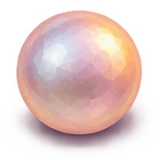
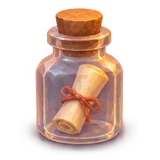
아이콘 누끼, 반투명 인벤토리, 양면 수첩(왼쪽 달력·오른쪽 일기/친구), 회중시계 지갑(노을색 차오름), 해변 물건·줍기 작게, 토스트 한 줄 멘트, 고운돋움 글씨, 진주/유리병 아이콘 바로잡기, 시세 숨김
Claude-Session: https://claude.ai/code/session_01V1uW48asEmbAkskT1r7mEz

diff --git a/index.html b/index.html
@@ -2,7 +2,7 @@
 <html lang="ko">
 <head>
 <meta charset="utf-8">
-<link rel="preconnect" href="https://fonts.googleapis.com"><link rel="preconnect" href="https://fonts.gstatic.com" crossorigin><link href="https://fonts.googleapis.com/css2?family=Gaegu:wght@400;700&display=swap" rel="stylesheet">
+<link rel="preconnect" href="https://fonts.googleapis.com"><link rel="preconnect" href="https://fonts.gstatic.com" crossorigin><link href="https://fonts.googleapis.com/css2?family=Gaegu:wght@400;700&family=Gowun+Dodum&display=swap" rel="stylesheet">
 <meta name="viewport" content="width=device-width, initial-scale=1, maximum-scale=1, user-scalable=no, viewport-fit=cover">
 <title>이브 빌리지</title>
 <meta name="description" content="늘 해 질 녘, 크리스마스이브에 멈춘 숲바다 마을">
@@ -51,61 +51,71 @@
   #standBtn{position:fixed;left:50%;transform:translateX(-50%);top:calc(12px + env(safe-area-inset-top));border:0;padding:10px 22px;border-radius:999px;background:#e8a457;color:#3a2420;font:700 14px -apple-system,'Apple SD Gothic Neo',sans-serif;box-shadow:0 4px 14px rgba(40,20,30,.35);z-index:6;display:none;}
 
   /* ---- 아래 아이콘·가방·수첩 ---- */
-  .icobtn{position:fixed;right:12px;width:46px;height:46px;border:0;padding:0;border-radius:50%;background:radial-gradient(circle at 40% 35%,rgba(255,248,236,.95),rgba(236,214,190,.92));box-shadow:0 4px 12px rgba(30,15,25,.35),inset 0 0 0 2px rgba(150,95,60,.25);z-index:6;display:none;}
-  .icobtn img{width:36px;height:36px;margin-top:2px;pointer-events:none;}
+  .icobtn{position:fixed;right:10px;width:50px;height:50px;border:0;padding:0;background:none;z-index:6;display:none;}
+  .icobtn img{width:50px;height:50px;pointer-events:none;filter:drop-shadow(0 3px 4px rgba(20,8,15,.45));}
   .icobtn:active{transform:scale(.94);}
   #bagBtn{bottom:calc(116px + env(safe-area-inset-bottom));}
   #dressBtn{bottom:calc(64px + env(safe-area-inset-bottom));top:auto;}
-  #sndBtn{position:fixed;top:calc(50px + env(safe-area-inset-top));right:12px;width:42px;height:42px;border:0;padding:0;border-radius:50%;background:rgba(255,250,240,.88);z-index:5;display:none;box-shadow:0 2px 8px rgba(30,15,25,.25);}
-  #sndBtn img{width:34px;height:34px;margin-top:2px;pointer-events:none;}
+  #sndBtn{position:fixed;top:calc(46px + env(safe-area-inset-top));right:10px;width:42px;height:42px;border:0;padding:0;background:none;z-index:5;display:none;}
+  #sndBtn img{width:42px;height:42px;pointer-events:none;filter:drop-shadow(0 3px 4px rgba(20,8,15,.45));}
   .ov{position:fixed;inset:0;z-index:14;display:none;align-items:center;justify-content:center;background:rgba(22,14,24,.55);backdrop-filter:blur(3px);}
   .ov.on{display:flex;}
   .ov .x{position:absolute;top:-6px;right:-6px;width:40px;height:40px;border-radius:50%;border:0;background:#fff4e2;color:#5a3a2b;font-size:22px;line-height:40px;box-shadow:0 4px 10px rgba(0,0,0,.3);z-index:4;}
-  #bagUI .bag{position:relative;width:min(92vw,78vh,640px);aspect-ratio:1100/1101;background:url(ui/bag.webp) center/100% 100% no-repeat;filter:drop-shadow(0 18px 30px rgba(10,5,10,.45));}
+  #bagUI .bag{position:relative;width:min(92vw,64vh,600px);margin-bottom:9vh;aspect-ratio:1100/1101;background:url(ui/bag.webp) center/100% 100% no-repeat;filter:drop-shadow(0 18px 30px rgba(10,5,10,.45));}
   #bagUI .inv{position:absolute;left:9%;right:9%;top:25%;bottom:11%;border-radius:18px;padding:4.5%;box-sizing:border-box;
-    background:linear-gradient(180deg,#f3e6d2,#e8d6bd);box-shadow:inset 0 3px 10px rgba(90,50,30,.35),0 0 0 3px rgba(120,70,40,.35);display:grid;grid-template-columns:repeat(4,1fr);grid-template-rows:repeat(3,1fr);gap:4%;}
-  #bagUI .cell{position:relative;border:0;padding:0;border-radius:12px;background:rgba(255,252,246,.75);box-shadow:inset 0 0 0 2px rgba(150,100,65,.22),0 2px 0 rgba(150,100,65,.15);display:flex;align-items:center;justify-content:center;}
+    background:rgba(70,35,25,.42);backdrop-filter:blur(2px);box-shadow:inset 0 3px 12px rgba(30,12,8,.45);display:grid;grid-template-columns:repeat(4,1fr);grid-template-rows:repeat(3,1fr);gap:4%;}
+  #bagUI .cell{position:relative;border:0;padding:0;border-radius:12px;background:rgba(255,236,210,.14);box-shadow:inset 0 0 0 1.5px rgba(255,225,190,.22);display:flex;align-items:center;justify-content:center;}
   #bagUI .cell img{width:78%;height:78%;object-fit:contain;filter:drop-shadow(0 2px 2px rgba(60,30,20,.3));pointer-events:none;}
-  #bagUI .cell i{position:absolute;right:5%;bottom:4%;font:700 15px/18px 'Gaegu',cursive;font-style:normal;color:#6a4230;}
-  #bagUI .cell.sel{background:#fff6e0;box-shadow:inset 0 0 0 3px #d39a5c;}
-  #bagUI .base{position:absolute;left:50%;bottom:-17%;transform:translateX(-50%);display:flex;gap:18px;}
-  #bagUI .base button{white-space:nowrap;border:0;padding:6px 14px 6px 8px;border-radius:999px;background:#fff4e2;color:#5a3a2b;font:700 18px 'Gaegu',cursive;display:flex;align-items:center;gap:6px;box-shadow:0 4px 12px rgba(0,0,0,.3);}
-  #bagUI .base img{width:34px;height:34px;}
+  #bagUI .cell i{position:absolute;right:6%;bottom:4%;font:13px/16px 'Gowun Dodum',sans-serif;font-style:normal;color:#fff4e2;text-shadow:0 1px 2px rgba(0,0,0,.7);}
+  #bagUI .cell.sel{background:rgba(255,236,210,.3);box-shadow:inset 0 0 0 2px rgba(255,214,150,.8);}
+  #bagUI .base{gap:34px !important;position:absolute;left:50%;bottom:-19%;transform:translateX(-50%);display:flex;gap:18px;}
+  #bagUI .base button{white-space:nowrap;border:0;padding:0;background:none;color:#fff4e2;font:15px 'Gowun Dodum',sans-serif;display:flex;flex-direction:column;align-items:center;gap:2px;text-shadow:0 1px 3px rgba(0,0,0,.8);}
+  #bagUI .base img{width:56px;height:56px;filter:drop-shadow(0 3px 4px rgba(0,0,0,.45));}
   #bagUI .pg{position:absolute;bottom:3.5%;left:50%;transform:translateX(-50%);display:flex;gap:10px;}
   #bagUI .pg button{border:0;border-radius:999px;padding:2px 12px;font:700 16px 'Gaegu',cursive;background:#fff4e2;color:#5a3a2b;}
   #bagInfo{position:absolute;left:50%;bottom:12%;transform:translateX(-50%);width:80%;z-index:3;padding:12px 16px 12px 12px;border-radius:12px;background:#f1e2c8;color:#4a3426;box-shadow:0 10px 22px rgba(0,0,0,.35);
-    font-family:'Gaegu',cursive;font-size:18px;line-height:22px;display:none;gap:12px;align-items:center;}
-  #bagInfo.on{display:flex;} #bagInfo img{width:64px;height:64px;flex:0 0 auto;} #bagInfo h4{margin:0 0 2px;font-size:22px;} #bagInfo small{color:#8a6247;font-size:15px;}
-  #wallet .wc{position:relative;width:min(80vw,320px);padding:26px 20px 22px;border-radius:22px;background:#f3e6d2;text-align:center;font-family:'Gaegu',cursive;color:#4a3426;box-shadow:0 18px 40px rgba(0,0,0,.45);}
-  #wallet .clock svg{width:72%;}
-  #wallet .wn{font-size:24px;margin-top:4px;} #wallet .wn b{font-size:52px;}
-  #wallet .wsub{font-size:18px;color:#8a6247;}
-  #note .nb{position:relative;height:min(88vh,140vw);aspect-ratio:960/1439;background:url(ui/note.webp) center/100% 100% no-repeat;filter:drop-shadow(0 18px 30px rgba(10,5,10,.45));font-family:'Gaegu','Nanum Pen Script',cursive;color:#4a3426;}
-  #note .pc{position:absolute;left:11%;right:14%;top:11%;bottom:9%;overflow:auto;}
-  #note .tb{position:absolute;left:89.5%;width:10%;height:7.6%;border:0;padding:0;background:none;color:#fff8ee;font:700 min(17px,3.6vw) 'Gaegu',cursive;text-shadow:0 1px 2px rgba(60,25,10,.6);}
-  #note .tb.on{filter:brightness(1.15);font-size:17px;}
-  #note .tb[data-t=cal]{top:21.6%;} #note .tb[data-t=day]{top:35.6%;} #note .tb[data-t=fr]{top:49.6%;}
-  #note h3{margin:0;font-size:min(30px,6.5vw);font-weight:700;color:#4a2c20;display:flex;align-items:center;justify-content:space-between;}
-  #note h3 button{border:0;background:none;font:700 26px 'Gaegu',cursive;color:#8a5a3e;padding:0 6px;}
-  #note .sub{font-size:min(18px,4.2vw);color:#8a6247;margin:2px 0 8px;}
+    font-family:'Gowun Dodum',sans-serif;font-size:13px;line-height:19px;display:none;gap:10px;align-items:center;}
+  #bagInfo.on{display:flex;} #bagInfo img{width:48px;height:48px;flex:0 0 auto;} #bagInfo h4{margin:0 0 2px;font-size:15px;} #bagInfo small{color:#8a6247;font-size:15px;}
+  #wallet .wc{position:relative;width:min(78vw,340px);text-align:center;font-family:'Gowun Dodum',sans-serif;color:#fff6ea;text-shadow:0 2px 6px rgba(20,8,15,.7);}
+  #wallet .clock{position:relative;width:100%;aspect-ratio:500/545;}
+  #wallet .clock img{width:100%;height:100%;filter:drop-shadow(0 14px 24px rgba(0,0,0,.5));}
+  #wallet .clock svg{position:absolute;left:21.5%;top:30.3%;width:57%;}
+  #wallet .wn{font-size:20px;margin-top:6px;} #wallet .wn b{font-size:44px;font-weight:400;}
+  #wallet .wsub{font-size:14px;opacity:.85;}
+  #wallet .x{top:2%;right:2%;}
+  #note .nb{position:relative;width:min(94vw,124vh,1000px);aspect-ratio:1400/917;background:url(ui/spread.webp) center/100% 100% no-repeat;filter:drop-shadow(0 18px 30px rgba(10,5,10,.45));font-family:'Gowun Dodum',sans-serif;color:#5a3d33;}
+  #note .pg{position:absolute;top:7%;bottom:8%;overflow:auto;}
+  #note .pg.l{left:6%;width:39%;} #note .pg.r{left:55%;width:37%;}
+  #note .tabs{position:absolute;top:2%;right:6%;display:flex;gap:6px;z-index:2;}
+  #note .tabs button{border:0;border-radius:999px;padding:3px 10px;font:13px 'Gowun Dodum',sans-serif;background:rgba(200,120,100,.18);color:#8a4f44;}
+  #note .tabs button.on{background:#d98c78;color:#fff;}
+  #note h3{margin:0;font-size:clamp(15px,2.4vw,22px);font-weight:400;color:#4f3128;display:flex;align-items:center;justify-content:space-between;}
+  #note h3 button{border:0;background:none;font-size:clamp(16px,2.4vw,22px);color:#b07060;padding:0 6px;}
+  #note .sub{font-size:clamp(11px,1.4vw,13px);color:#a07a6c;margin:2px 0 8px;}
   #note .cal{display:grid;grid-template-columns:repeat(7,1fr);gap:2px;text-align:center;}
-  #note .cal .h{font-size:min(16px,3.8vw);color:#9b7458;padding-bottom:2px;}
-  #note .cal .d{position:relative;aspect-ratio:1;font-size:min(18px,4.2vw);line-height:1.5;border-radius:8px;cursor:pointer;}
-  #note .cal .d.sel{background:rgba(255,236,200,.55);box-shadow:inset 0 0 0 1px rgba(160,100,60,.25);}
-  #note .cal .d.today{font-weight:700;color:#c4523a;}
-  #note .cal .d img{position:absolute;left:50%;top:50%;width:132%;height:132%;transform:translate(-50%,-50%) rotate(var(--r));opacity:.86;mix-blend-mode:multiply;pointer-events:none;}
-  #note ul{list-style:none;margin:6px 0 0;padding:0;font-size:min(20px,4.6vw);line-height:1.6;}
-  #note li{position:relative;padding-left:20px;} #note li:before{content:'';position:absolute;left:3px;top:.7em;width:8px;height:8px;border-radius:50%;background:#d88a5c;}
-  #note .empty{color:#9b7458;font-size:min(19px,4.4vw);margin-top:6px;}
-  #note .mini{display:flex;align-items:center;gap:8px;margin-top:10px;font-size:min(18px,4.2vw);}
-  #note .mini img{width:54px;height:54px;mix-blend-mode:multiply;opacity:.9;transform:rotate(-10deg);}
+  #note .cal .h{font-size:clamp(10px,1.3vw,12px);color:#b08a7c;padding-bottom:2px;}
+  #note .cal .d{position:relative;aspect-ratio:1;font-size:clamp(11px,1.5vw,14px);line-height:1.7;border-radius:8px;cursor:pointer;}
+  #note .cal .d.sel{background:rgba(217,140,120,.16);}
+  #note .cal .d.today{color:#c2563f;font-weight:700;}
+  #note .cal .d img{position:absolute;left:50%;top:50%;width:115%;height:115%;transform:translate(-50%,-50%) rotate(var(--r));opacity:.85;mix-blend-mode:multiply;pointer-events:none;}
+  #note ul{list-style:none;margin:8px 0 0;padding:0;font-size:clamp(12px,1.6vw,15px);line-height:1.9;}
+  #note li{position:relative;padding-left:16px;} #note li:before{content:'';position:absolute;left:2px;top:.8em;width:6px;height:6px;border-radius:50%;background:#e0a08a;}
+  #note .empty{color:#b08a7c;font-size:clamp(12px,1.5vw,14px);margin-top:8px;line-height:1.8;}
+  #note .mini{display:flex;align-items:center;gap:6px;margin-top:10px;font-size:clamp(11px,1.4vw,13px);color:#a07a6c;}
+  #note .mini img{width:40px;height:40px;mix-blend-mode:multiply;opacity:.85;transform:rotate(-10deg);}
+  #note .flip{display:none;}
+  @media (max-width:680px){#note .nb{width:92vw;aspect-ratio:700/917;background-size:200% 100%;background-position:0 0;}
+    #note .nb.rt{background-position:100% 0;} #note .pg.l{left:12%;width:80%;} #note .pg.r{left:10%;width:78%;display:none;}
+    #note .nb.rt .pg.l{display:none;} #note .nb.rt .pg.r{display:block;}
+    #note .flip{display:block;position:absolute;bottom:2.5%;left:50%;transform:translateX(-50%);border:0;border-radius:999px;padding:4px 14px;font:13px 'Gowun Dodum',sans-serif;background:#d98c78;color:#fff;z-index:2;}
+    #note h3{font-size:19px;} #note .sub{font-size:12px;} #note .cal .h{font-size:11px;} #note .cal .d{font-size:13px;} #note ul{font-size:14px;} #note .empty{font-size:13px;}}
   .wiv{position:absolute;width:5.2%;aspect-ratio:1;transform:translate(-50%,-50%);pointer-events:none;}
-  .pickBtn{position:absolute;transform:translate(-50%,-100%);border:0;border-radius:999px;padding:4px 11px;background:#fff4e2;color:#5a3a2b;font:700 15px 'Gaegu',cursive;box-shadow:0 3px 8px rgba(0,0,0,.3);pointer-events:auto;white-space:nowrap;}
+  .pickBtn{position:absolute;transform:translate(-50%,-100%);border:0;border-radius:999px;padding:2px 8px;background:#fff4e2;color:#5a3a2b;font:12px 'Gowun Dodum',sans-serif;box-shadow:0 3px 8px rgba(0,0,0,.3);pointer-events:auto;white-space:nowrap;}
   .pickBtn:after{content:'';position:absolute;left:50%;bottom:-5px;margin-left:-5px;border:5px solid transparent;border-top-color:#fff4e2;border-bottom:0;}
   .glint{position:absolute;width:14px;height:14px;transform:translate(-50%,-50%);pointer-events:none;background:linear-gradient(#fff,#fff) center/2px 100% no-repeat,linear-gradient(#fff,#fff) center/100% 2px no-repeat;filter:drop-shadow(0 0 3px #fff3c4);animation:glint 4s ease-in-out infinite;opacity:0;}
   @keyframes glint{0%,70%,100%{opacity:0;transform:translate(-50%,-50%) scale(.4) rotate(0)}80%{opacity:1;transform:translate(-50%,-50%) scale(1) rotate(45deg)}90%{opacity:0;transform:translate(-50%,-50%) scale(.5) rotate(90deg)}}
-  #toast{position:fixed;left:50%;top:calc(64px + env(safe-area-inset-top));transform:translate(-50%,-20px);opacity:0;transition:all .35s;z-index:15;background:#fff4e2;color:#5a3a2b;
-    padding:10px 16px 10px 12px;border-radius:16px;box-shadow:0 8px 20px rgba(0,0,0,.25);display:flex;align-items:center;gap:10px;font-family:'Gaegu',cursive;font-size:19px;pointer-events:none;}
+  #toast{position:fixed;left:50%;top:calc(58px + env(safe-area-inset-top));transform:translate(-50%,-10px);opacity:0;transition:all .35s;z-index:15;white-space:nowrap;
+    color:#fff8ec;font:15px 'Gowun Dodum',sans-serif;text-shadow:0 1px 3px rgba(40,15,20,.85),0 0 10px rgba(40,15,20,.5);display:flex;align-items:center;gap:6px;pointer-events:none;}
   #toast.on{opacity:1;transform:translate(-50%,0);}
   #toast img{flex:0 0 auto;} #toast .ms{width:38px;height:38px;border-radius:50%;border:2px solid #c4523a;color:#c4523a;font-size:12px;line-height:13px;display:flex;align-items:center;justify-content:center;text-align:center;transform:rotate(-12deg);font-weight:700;}
   #shop{position:fixed;inset:0;z-index:14;display:none;align-items:center;justify-content:center;background:rgba(25,16,28,.5);backdrop-filter:blur(3px);}
@@ -158,8 +168,8 @@
 <div id="view"><div id="stage"><img id="map" alt=""><div id="fx"></div><canvas id="c"></canvas><div id="fxTop" style="position:absolute;inset:0;pointer-events:none"></div><div id="seats"></div><div id="tags"></div><div id="tap"></div></div><div id="fg"></div></div>
 <div id="place">광장</div><button id="bagBtn" class="icobtn" aria-label="가방"><img src="ui/i_bag.webp" alt=""></button><button id="dressBtn" class="icobtn" aria-label="꾸미기"><img src="ui/i_dress.webp" alt=""></button>
 <div id="bagUI" class="ov"><div class="bag"><button class="x" aria-label="닫기">×</button><div class="inv" id="pockets"></div><div class="pg" id="bagPg"></div><div id="bagInfo"></div><div class="base"><button data-a="wallet"><img src="ui/i_wallet.webp" alt="">지갑</button><button data-a="note"><img src="ui/i_note.webp" alt="">수첩</button></div></div></div>
-<div id="wallet" class="ov"><div class="wc"><button class="x" aria-label="닫기">×</button><div class="clock"><svg viewBox="0 0 200 200"><circle cx="100" cy="100" r="86" fill="#fbf2e2" stroke="#8a5a3e" stroke-width="6"/><circle id="wArc" cx="100" cy="100" r="70" fill="none" stroke="#e8955f" stroke-width="16" stroke-linecap="round" transform="rotate(-90 100 100)" stroke-dasharray="0 440"/><line id="wHand" x1="100" y1="100" x2="100" y2="40" stroke="#5a3a2b" stroke-width="5" stroke-linecap="round"/><circle cx="100" cy="100" r="7" fill="#5a3a2b"/></svg></div><div class="wn"><b id="wNum">0</b>초</div><div class="wsub">모아둔 멈춘 시간</div></div></div>
-<div id="note" class="ov"><div class="nb"><button class="x" aria-label="닫기">×</button><button class="tb" data-t="cal">달력</button><button class="tb" data-t="day">일기</button><button class="tb" data-t="fr">친구</button><div class="pc" id="notePc"></div></div></div><div id="toast"></div><div id="shop"><div class="card"><button class="x" aria-label="닫기">×</button><div id="shopBody"></div></div></div><button id="sndBtn" aria-label="소리"><img src="ui/i_snd_on.webp" alt=""></button><div id="dress"></div><div id="who">1명 접속 중</div>
+<div id="wallet" class="ov"><div class="wc"><button class="x" aria-label="닫기">×</button><div class="clock"><img src="ui/watch.webp" alt=""><svg viewBox="0 0 200 200"><defs><linearGradient id="dusk" x1="0" y1="0" x2="0" y2="1"><stop offset="0" stop-color="#f6b26b"/><stop offset=".55" stop-color="#e98a7a"/><stop offset="1" stop-color="#9f7bb0"/></linearGradient></defs><path id="wArc" d="" fill="url(#dusk)" opacity=".85"/><g stroke="#a3785e" stroke-width="3" stroke-linecap="round" opacity=".55"><line x1="100" y1="8" x2="100" y2="20"/><line x1="192" y1="100" x2="180" y2="100"/><line x1="100" y1="192" x2="100" y2="180"/><line x1="8" y1="100" x2="20" y2="100"/></g><line id="wHand" x1="100" y1="100" x2="100" y2="22" stroke="#6b4434" stroke-width="5" stroke-linecap="round"/><circle cx="100" cy="100" r="7" fill="#c9974a" stroke="#6b4434" stroke-width="2"/></svg></div><div class="wn"><b id="wNum">0</b>초</div><div class="wsub">모아둔 멈춘 시간</div></div></div>
+<div id="note" class="ov"><div class="nb"><button class="x" aria-label="닫기">×</button><div class="tabs"><button data-t="day">일기</button><button data-t="fr">친구</button></div><div class="pg l" id="noteL"></div><div class="pg r" id="noteR"></div><button class="flip">일기 보기 ›</button></div></div><div id="toast"></div><div id="shop"><div class="card"><button class="x" aria-label="닫기">×</button><div id="shopBody"></div></div></div><button id="sndBtn" aria-label="소리"><img src="ui/i_snd_on.webp" alt=""></button><div id="dress"></div><div id="who">1명 접속 중</div>
 <button id="standBtn">일어나기</button><form id="chat" autocomplete="off"><input id="msg" maxlength="60" placeholder="이웃에게 한마디"><button type="submit">보내기</button></form>
 <div id="fade"></div>
 <div id="title"><h1>이브 빌리지</h1><p>늘 해 질 녘, 크리스마스이브에 멈춘 숲바다 마을</p><input id="nm" maxlength="8" placeholder="이름 (최대 8자)"><input id="pw" type="password" maxlength="30" placeholder="비밀번호 (6자 이상)"><p style="font-size:12px;opacity:.75;margin:0">처음이면 자동으로 가입돼요. 다른 기기에서도 같은 이름·비번으로 들어와요.</p><div id="err"></div><button id="go">입장하기</button></div>
@@ -509,10 +519,10 @@ const DLINE={visit:{plaza:'광장 분수 트리 앞을 천천히 걸었다.',bea
   sit:{plaza:'광장 벤치에 앉아 트리 불빛을 바라봤다.',beach:'모닥불 곁에 앉아 파도 소리를 들었다.',library:'도서관 한쪽에 앉아 잠깐 쉬었다.'},
   chat:{plaza:'광장에서 이웃들에게 말을 걸었다.',beach:'해변에서 누군가와 이야기를 나눴다.',library:'도서관에서 작게 소곤소곤 이야기했다.'}};
 // ---- 수첩: 달력 / 일기 / 친구 ----
-const noteEl=document.getElementById('note'),notePc=document.getElementById('notePc');
+const noteEl=document.getElementById('note'),noteNb=noteEl.querySelector('.nb'),noteL=document.getElementById('noteL'),noteR=document.getElementById('noteR');
 const seedRot=(k)=>{let s=0;for(const c of k)s=(s*31+c.charCodeAt(0))%997;return (s%46)-23;};
-const Note={on:false,tab:'cal',sel:null,ym:null,
-  open(tab){this.on=true;if(tab)this.tab=tab;noteEl.classList.add('on');this.render();},
+const Note={on:false,tab:'day',sel:null,ym:null,
+  open(){this.on=true;this.sel=null;noteNb.classList.remove('rt');noteEl.classList.add('on');this.render();},
   close(){this.on=false;noteEl.classList.remove('on');},
   dt(k){const [y,m,d]=k.split('-').map(Number);return new Date(y,m-1,d);},
   title(k){const dt=this.dt(k);return `${dt.getMonth()+1}월 ${dt.getDate()}일 ${KDAY[dt.getDay()]}요일`;},
@@ -524,25 +534,20 @@ const Note={on:false,tab:'cal',sel:null,ym:null,
     const p=by('p_').map(x=>ITEMS[x]&&ITEMS[x].name).filter(Boolean),pn=(Me.d.pick&&Me.d.pick[k])||0;if(pn)L.push(`해변에서 ${p.slice(0,2).join(', ')}${p.length>2?' 등':''} ${pn}개를 주웠다.`);
     if(by('sell_').length)L.push('만물상에서 주운 것들을 시간으로 바꿨다.');
     return L.slice(0,4);},
-  render(){noteEl.querySelectorAll('.tb').forEach(b=>b.classList.toggle('on',b.dataset.t===this.tab));
-    const k=ymd();let H='';
-    if(this.tab==='cal'){const base=this.ym||new Date();const y=base.getFullYear(),m=base.getMonth();const first=new Date(y,m,1).getDay(),last=new Date(y,m+1,0).getDate();
-      let c=KDAY.map(d=>`<div class="h">${d}</div>`).join('');for(let i=0;i<first;i++)c+='<div></div>';
-      for(let d=1;d<=last;d++){const kk=ymd(new Date(y,m,d));const g=Me.d.diary[kk];const st=g&&g.st;
-        c+=`<div class="d${kk===k?' today':''}${kk===(this.sel||k)?' sel':''}" data-k="${kk}">${d}${st?`<img src="ui/stamp.webp" alt="" style="--r:${seedRot(kk)}deg">`:''}</div>`;}
-      const n=Object.values(Me.d.diary).filter(x=>x&&x.st).length,sk=this.sel||k;
-      H=`<h3><button data-m="-1">‹</button>${y}년 ${m+1}월<button data-m="1">›</button></h3><div class="sub" style="text-align:center">해질녘 도장 ${n}개</div><div class="cal">${c}</div>
-         <div style="margin-top:12px"><h3 style="font-size:min(22px,5vw)">${this.title(sk)}</h3>${this.list(sk)}</div>`;}
-    else if(this.tab==='day'){const sk=this.sel||k;const g=Me.d.diary[sk];
-      H=`<h3><button data-d="-1">‹</button><span>${this.title(sk)}</span><button data-d="1">›</button></h3><div class="sub">${sk===k?'오늘도 해질녘, 영원한 이브':'그날의 해질녘'}</div>${this.list(sk)}
-         ${g&&g.st?`<div class="mini"><img src="ui/stamp.webp" alt="">이 날도 마을에 왔다.</div>`:''}`;}
-    else{const fr=Me.d.friends||{};const ids=Object.keys(fr);
-      H=`<h3>친구 목록</h3><div class="sub">이야기를 나눠본 친구들. 친해진 정도는 나만 볼 수 있어.</div>`+(ids.length?'<ul>'+ids.map(u=>`<li>${esc(fr[u].n||'이웃')}</li>`).join('')+'</ul>':'<div class="empty">아직 이야기 나눠본 친구가 없어.<br>마을에서 누군가에게 말을 걸어볼까?</div>');}
-    notePc.innerHTML=H;notePc.scrollTop=0;
-    notePc.querySelectorAll('.cal .d').forEach(el=>el.onclick=()=>{this.sel=el.dataset.k;this.render();});
-    notePc.querySelectorAll('[data-m]').forEach(b=>b.onclick=()=>{const base=this.ym||new Date();this.ym=new Date(base.getFullYear(),base.getMonth()+(+b.dataset.m),1);this.render();});
-    notePc.querySelectorAll('[data-d]').forEach(b=>b.onclick=()=>{const d=this.dt(this.sel||k);d.setDate(d.getDate()+(+b.dataset.d));const nk=ymd(d);if(nk<=k){this.sel=nk;this.render();}});}};
-noteEl.querySelectorAll('.tb').forEach(b=>b.addEventListener('click',()=>{Note.tab=b.dataset.t;Note.sel=null;Note.render();}));
+  render(){noteEl.querySelectorAll('.tabs button').forEach(b=>b.classList.toggle('on',b.dataset.t===this.tab));
+    const k=ymd(),sk=this.sel||k;
+    const base=this.ym||new Date();const y=base.getFullYear(),m=base.getMonth();const first=new Date(y,m,1).getDay(),last=new Date(y,m+1,0).getDate();
+    let c=KDAY.map(d=>`<div class="h">${d}</div>`).join('');for(let i=0;i<first;i++)c+='<div></div>';
+    for(let d=1;d<=last;d++){const kk=ymd(new Date(y,m,d));const g=Me.d.diary[kk];c+=`<div class="d${kk===k?' today':''}${kk===sk?' sel':''}" data-k="${kk}">${d}${g&&g.st?`<img src="ui/stamp.webp" alt="" style="--r:${seedRot(kk)}deg">`:''}</div>`;}
+    const n=Object.values(Me.d.diary).filter(x=>x&&x.st).length;
+    noteL.innerHTML=`<h3><button data-m="-1">‹</button>${y}년 ${m+1}월<button data-m="1">›</button></h3><div class="sub" style="text-align:center">해질녘 도장 ${n}개</div><div class="cal">${c}</div>`;
+    if(this.tab==='day'){const g=Me.d.diary[sk];noteR.innerHTML=`<h3>${this.title(sk)}</h3><div class="sub">${sk===k?'오늘도 해질녘, 영원한 이브':'그날의 해질녘'}</div>${this.list(sk)}${g&&g.st?`<div class="mini"><img src="ui/stamp.webp" alt="">이 날도 마을에 왔다.</div>`:''}`;}
+    else{const fr=Me.d.friends||{};const ids=Object.keys(fr);noteR.innerHTML=`<h3>친구 목록</h3><div class="sub">이야기를 나눠본 친구들 · 나만 볼 수 있어</div>`+(ids.length?'<ul>'+ids.map(u=>`<li>${esc(fr[u].n||'이웃')}</li>`).join('')+'</ul>':'<div class="empty">아직 이야기 나눠본 친구가 없어.<br>마을에서 누군가에게 말을 걸어볼까?</div>');}
+    noteEl.querySelector('.flip').textContent=noteNb.classList.contains('rt')?'‹ 달력 보기':(this.tab==='fr'?'친구 보기 ›':'일기 보기 ›');
+    noteL.querySelectorAll('.cal .d').forEach(el=>el.onclick=()=>{this.sel=el.dataset.k;this.tab='day';if(matchMedia('(max-width:680px)').matches)noteNb.classList.add('rt');this.render();});
+    noteL.querySelectorAll('[data-m]').forEach(b=>b.onclick=()=>{this.ym=new Date(y,m+(+b.dataset.m),1);this.render();});}};
+noteEl.querySelectorAll('.tabs button').forEach(b=>b.addEventListener('click',()=>{Note.tab=b.dataset.t;noteNb.classList.add('rt');Note.render();}));
+noteEl.querySelector('.flip').addEventListener('click',()=>{noteNb.classList.toggle('rt');Note.render();});
 noteEl.querySelector('.x').addEventListener('click',()=>Note.close());noteEl.addEventListener('click',e=>{if(e.target===noteEl)Note.close();});
 // ---- 가방: 지갑·수첩 + 물건 주머니 ----
 const bagEl=document.getElementById('bagUI'),bagBtn=document.getElementById('bagBtn'),pocketsEl=document.getElementById('pockets'),bagInfo=document.getElementById('bagInfo');
@@ -555,14 +560,14 @@ const Bag={on:false,page:0,sel:null,
     document.getElementById('bagPg').innerHTML=pages>1?`<button data-p="-1">‹</button><button>${this.page+1}/${pages}</button><button data-p="1">›</button>`:'';
     document.querySelectorAll('#bagPg [data-p]').forEach(b=>b.onclick=()=>{this.page=(this.page+(+b.dataset.p)+pages)%pages;this.render();});
     pocketsEl.querySelectorAll('.cell[data-id]').forEach(el=>el.onclick=()=>{const id=el.dataset.id,it=ITEMS[id];if(this.sel===id){this.sel=null;this.render();return;}this.sel=id;this.render();
-      this.info(`${itemImg(id,64)}<div><h4>${esc(it.name)} × ${Me.d.bag[id]}</h4>${esc(it.txt)}<br><small>${it.nosell?'만물상에서도 안 받아주는 물건.':'만물상 시세: 하나에 '+it.sec+'초'}</small></div>`);});
+      this.info(`${itemImg(id,48)}<div><h4>${esc(it.name)} × ${Me.d.bag[id]}</h4>${esc(it.txt)}</div>`);});
     if(!this.sel)bagInfo.classList.remove('on');},
   info(html){bagInfo.innerHTML=html;bagInfo.classList.add('on');}};
-bagEl.querySelectorAll('.base button').forEach(b=>b.addEventListener('click',()=>{if(b.dataset.a==='note'){Bag.close();Note.open('cal');}else{Bag.close();Wallet.open();}}));
+bagEl.querySelectorAll('.base button').forEach(b=>b.addEventListener('click',()=>{if(b.dataset.a==='note'){Bag.close();Note.open();}else{Bag.close();Wallet.open();}}));
 const walletOv=document.getElementById('wallet');
 const Wallet={open(){walletOv.classList.add('on');const tgt=Me.d.sec||0,dur=1300,t0=performance.now();const arc=document.getElementById('wArc'),hand=document.getElementById('wHand'),num=document.getElementById('wNum');
     const step=now=>{const k=Math.min(1,(now-t0)/dur),e=1-Math.pow(1-k,3),v=Math.round(tgt*e);num.textContent=v.toLocaleString();
-      const f=((v%60)/60)||(v&&v%60===0?1:0);arc.setAttribute('stroke-dasharray',(440*f).toFixed(1)+' 440');hand.setAttribute('transform','rotate('+(e*360*Math.max(1,Math.ceil(tgt/60)))+' 100 100)');if(k<1&&walletOv.classList.contains('on'))requestAnimationFrame(step);};requestAnimationFrame(step);},
+      const f=Math.min(1,e*Math.min(1,tgt/600+0.15)*(tgt?1:0));const ang=f*2*Math.PI,r=92,x=100+r*Math.sin(ang),y=100-r*Math.cos(ang);arc.setAttribute('d',f>=0.999?'M100 8 A92 92 0 1 1 99.9 8 Z':(f<=0?'':`M100 100 L100 8 A92 92 0 ${ang>Math.PI?1:0} 1 ${x.toFixed(2)} ${y.toFixed(2)} Z`));hand.setAttribute('transform','rotate('+(e*360*Math.max(1,Math.ceil(tgt/60)))+' 100 100)');if(k<1&&walletOv.classList.contains('on'))requestAnimationFrame(step);};requestAnimationFrame(step);},
   close(){walletOv.classList.remove('on');}};
 walletOv.querySelector('.x').addEventListener('click',()=>Wallet.close());walletOv.addEventListener('click',e=>{if(e.target===walletOv)Wallet.close();});
 bagEl.querySelector('.x').addEventListener('click',()=>Bag.close());bagEl.addEventListener('click',e=>{if(e.target===bagEl)Bag.close();});
@@ -570,7 +575,7 @@ bagBtn.addEventListener('click',()=>Bag.open());
 const Diary={get on(){return Note.on;},render(){Note.render();}};
 function esc(s){return String(s).replace(/[&<>"']/g,c=>({'&':'&amp;','<':'&lt;','>':'&gt;','"':'&quot;',"'":'&#39;'}[c]));}
 async function startMe(){await Me.load();buildSparks();bagBtn.style.display='block';
-  if(Me.stamp()){Me.log('오늘도 해질녘 마을에 왔다.','arrive');setTimeout(()=>toast('<img src="ui/stamp.webp" width="46" height="46" style="mix-blend-mode:multiply;transform:rotate(-12deg)">달력에 오늘의 해질녘 도장이 찍혔어!',3400),900);}
+  if(Me.stamp()){Me.log('오늘도 해질녘 마을에 왔다.','arrive');setTimeout(()=>toast('<img src="ui/stamp.webp" width="26" height="26">오늘의 해질녘 도장이 찍혔어!',3200),900);}
   Me.log(DLINE.visit[placeKey],'v_'+placeKey);}
 
 /* ===================== 5-c. 해변 줍기 & 만물상 교환 ===================== */
@@ -582,7 +587,7 @@ let pickGroup=new THREE.Group();scene.add(pickGroup);const pickMats={};
 function itemMat(id){if(pickMats[id])return pickMats[id];const t=rtex('it_'+id);return pickMats[id]=new THREE.ShaderMaterial({uniforms:{uMap:{value:t}},transparent:true,depthWrite:false,
   vertexShader:'varying vec2 vUv;void main(){vUv=uv;gl_Position=projectionMatrix*modelViewMatrix*vec4(position,1.);}',
   fragmentShader:'uniform sampler2D uMap;varying vec2 vUv;void main(){vec4 c=texture2D(uMap,vUv);if(c.a<0.04)discard;gl_FragColor=vec4(c.rgb*vec3(1.0,0.95,0.9),c.a);}'});}
-function placeSparkMesh(s){const w=0.026*SW;const sh=new THREE.Mesh(new THREE.PlaneGeometry(w*1.1,w*0.38),new THREE.MeshBasicMaterial({map:getShadowTex(),transparent:true,depthWrite:false,toneMapped:false,opacity:0.8}));
+function placeSparkMesh(s){const w=0.017*SW;const sh=new THREE.Mesh(new THREE.PlaneGeometry(w*1.1,w*0.38),new THREE.MeshBasicMaterial({map:getShadowTex(),transparent:true,depthWrite:false,toneMapped:false,opacity:0.8}));
   sh.position.set(s.x/100*SW+w*0.06,-(s.y/100*SH+w*0.12),-3.43e6);
   const m=new THREE.Mesh(new THREE.PlaneGeometry(w,w),itemMat(s.id));m.rotation.z=s.rot;m.position.set(s.x/100*SW,-(s.y/100*SH-w*0.18),-3.42e6);
   pickGroup.add(sh);pickGroup.add(m);s.mesh=[sh,m];}
@@ -598,13 +603,13 @@ let sparkT=0;
 function tickSparks(dt){if(placeKey!=='beach'||!me)return;
   let nb=null,nd=6.5;if(!me.sitting)sparks.forEach(s=>{const d=Math.hypot((s.x-me.x)*AR,s.y-me.y);if(d<nd){nd=d;nb=s;}});
   sparks.forEach(s=>{const near=s===nb;
-    if(near&&!s.btn){const b=document.createElement('button');b.className='pickBtn';b.textContent='줍기';b.style.left=s.x+'%';b.style.top=(s.y-2.2)+'%';
+    if(near&&!s.btn){const b=document.createElement('button');b.className='pickBtn';b.textContent='줍기';b.style.left=s.x+'%';b.style.top=(s.y-1.6)+'%';
       const stop=e=>e.stopPropagation();b.addEventListener('pointerdown',stop);b.addEventListener('pointerup',e=>{e.stopPropagation();faceTo(me,s.x,s.y);pickSpark(s);});tagsEl.appendChild(b);s.btn=b;}
     else if(!near&&s.btn){s.btn.remove();s.btn=null;}});
   sparkT-=dt;if(sparkT<=0){sparkT=70+Math.random()*60;if(Me.ready&&sparks.length<PICK_N&&pickedToday()+sparks.length<PICK_MAX)spawnSpark();}}
 function pickSpark(s){if(!sparks.includes(s))return;if(pickedToday()>=PICK_MAX){say(me,'오늘은 바다가 더 줄 게 없대. 내일 또 와야지');return;}
   clearSpark(s);sparks=sparks.filter(q=>q!==s);const id=s.id,it=ITEMS[id];Me.addItem(id,1);Me.d.pick=Me.d.pick||{};Me.d.pick[ymd()]=pickedToday()+1;Me.save();
-  toast(`${itemImg(id,40)}<span><b>${it.name}</b>을(를) 주웠다!<br><small style="font-size:15px">오늘 ${pickedToday()}/${PICK_MAX}</small></span>`,2600);
+  toast(`${itemImg(id,26)}<span>${it.name}을(를) 주웠다! (${pickedToday()}/${PICK_MAX})</span>`,2400);
   Me.log(`해변에서 ${it.name}을(를) 주웠다.`,'p_'+id);if(id==='pearl')say(me,'헉, 진주다…!');}
 function sparkAt(nx,ny){if(placeKey!=='beach')return null;let b=null,bd=3.6;sparks.forEach(s=>{const d=Math.hypot((s.x-nx)*AR,s.y-ny);if(d<bd){bd=d;b=s;}});return b;}
 const shopEl=document.getElementById('shop'),shopBody=document.getElementById('shopBody');
